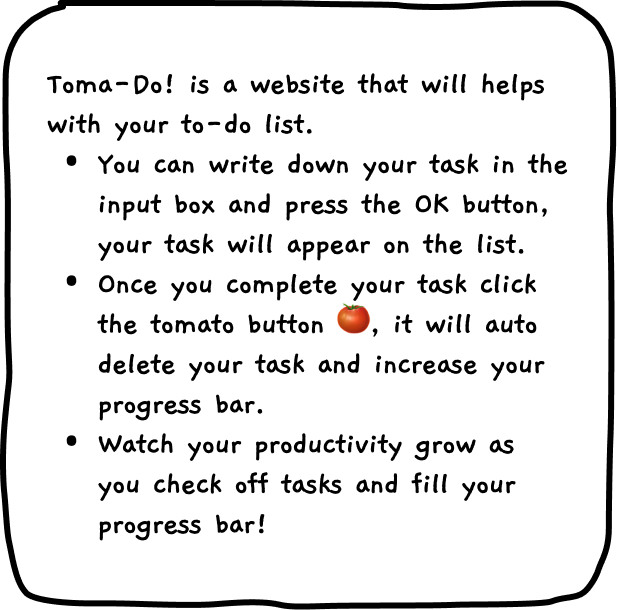
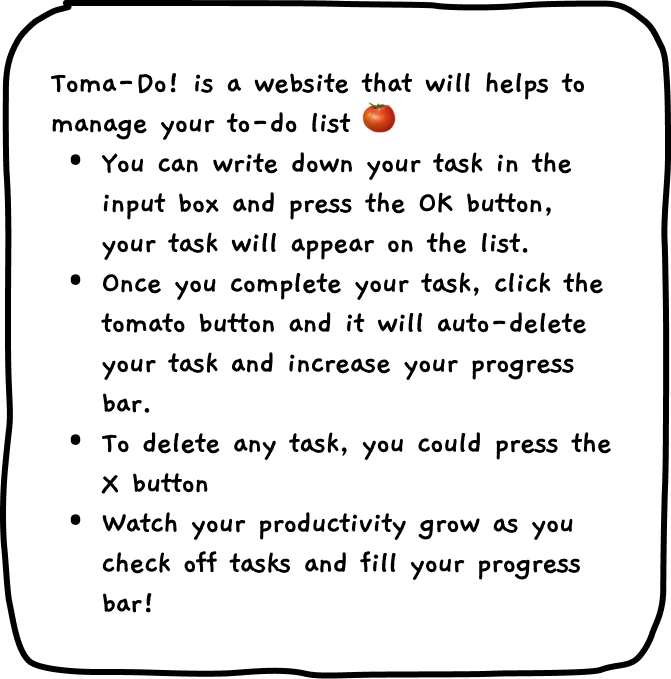
Updating bugs

diff --git a/app/main/page.js b/app/main/page.js
@@ -1,5 +1,3 @@
-// FORCE CHANGE CHECK
-
 "use client";
 
 import { useEffect, useState } from "react";
@@ -16,41 +14,37 @@ export default function Page(){
     const [completedCount, setCompletedCount] = useState(0);
     const [totalCount, setTotalCount] = useState(0);
 
+    const progressPercent = 
+        totalCount === 0 ? 0 : ((completedCount / totalCount) * 100);
+
     const addTask = () => {
         if (!task.trim()) return;
 
+        setTasks(prev => [...prev, { text: task }]);
+        setTotalCount(prev => prev + 1);
         setTask("");
-        setTasks([...tasks, task]);
-        setTotalCount((prev) => prev + 1);
     }
 
     const deleteTask = (index) => {
-            setTasks((prevTasks) =>
-            prevTasks.filter((_, i) => i !== index)
-        );
+        setTasks(tasks.filter((_, i) => i !== index));
+        setTotalCount(prev => Math.max(prev - 1, 0));
     };
 
     const completeTask = (index) => {
-        setTasks((prev) => prev.filter((_, i) => i !== index));
-        setCompletedCount((prev) => prev + 1);
-    };
+        setCompletedCount(prev => prev + 1);
 
-    const progressPercent = 
-    totalCount === 0
-        ? 0
-        : Math.min((completedCount / totalCount) * 100, 100);
+        setTimeout(() => {
+            setTasks(prev => prev.filter((_, i) => i !== index));
+        }, 300);
+    };
 
     useEffect(() => {
         const savedDate = localStorage.getItem("lastDate");
 
-        if (savedDate === todayKey) {
-            const savedTasks = JSON.parse(localStorage.getItem("tasks")) || [];
-            const savedCompleted = Number(localStorage.getItem("completedCount")) || [];
-            const savedTotal = Number(localStorage.getItem("totalCount")) || 0;
-
-            setTasks(savedTasks);
-            setCompletedCount(savedCompleted);
-            setTotalCount(savedTotal);
+    if (savedDate === todayKey) {
+            setTasks(JSON.parse(localStorage.getItem("tasks")) || []);
+            setCompletedCount(Number(localStorage.getItem("completedCount")) || 0);
+            setTotalCount(Number(localStorage.getItem("totalCount")) || 0);    
         } else {
             localStorage.setItem("lastDate", todayKey);
             localStorage.setItem("tasks", JSON.stringify([]));
@@ -61,9 +55,10 @@ export default function Page(){
             setCompletedCount(0);
             setTotalCount(0);
         }
-
+        
         setIsLoaded(true);
     }, [todayKey]);
+
 
     useEffect(() => {
         if (!isLoaded) return;
@@ -88,9 +83,10 @@ export default function Page(){
                                 <div className="progress-container">
                                     <div className="progress-fill" style={{width: `${progressPercent}%`}}></div>
                                 </div>
-                                <p className={`progress-text ${totalCount === 0 ? "empty" : "" }`}>
-                                    {completedCount}/{totalCount} 🍅
-                                </p>
+                                    <p className={`progress-text ${totalCount === 0 ? "empty" : ""}`}>
+                                        {completedCount}/{totalCount} 🍅
+                                    </p>
+
                             </div>
                             <input type ="text" placeholder="What's your today task?" value={task} onChange={(e)=> setTask(e.target.value)} className="fill-box"/>
                         </div>
@@ -110,7 +106,7 @@ export default function Page(){
                             tasks.map((t, i) => (
                             <li key={i} className="task-item">
                                 <img src="/tomat.png" className="button-tomato" aria-label="Complete task" onClick={()=> completeTask(i)}/>
-                                <span>{t}</span>
+                                <span>{t.text}</span>
                                 <button className="button-X" onClick={() =>deleteTask(i)}> 
                                     <img src="/delete.png" alt="" /> 
                                 </button>
